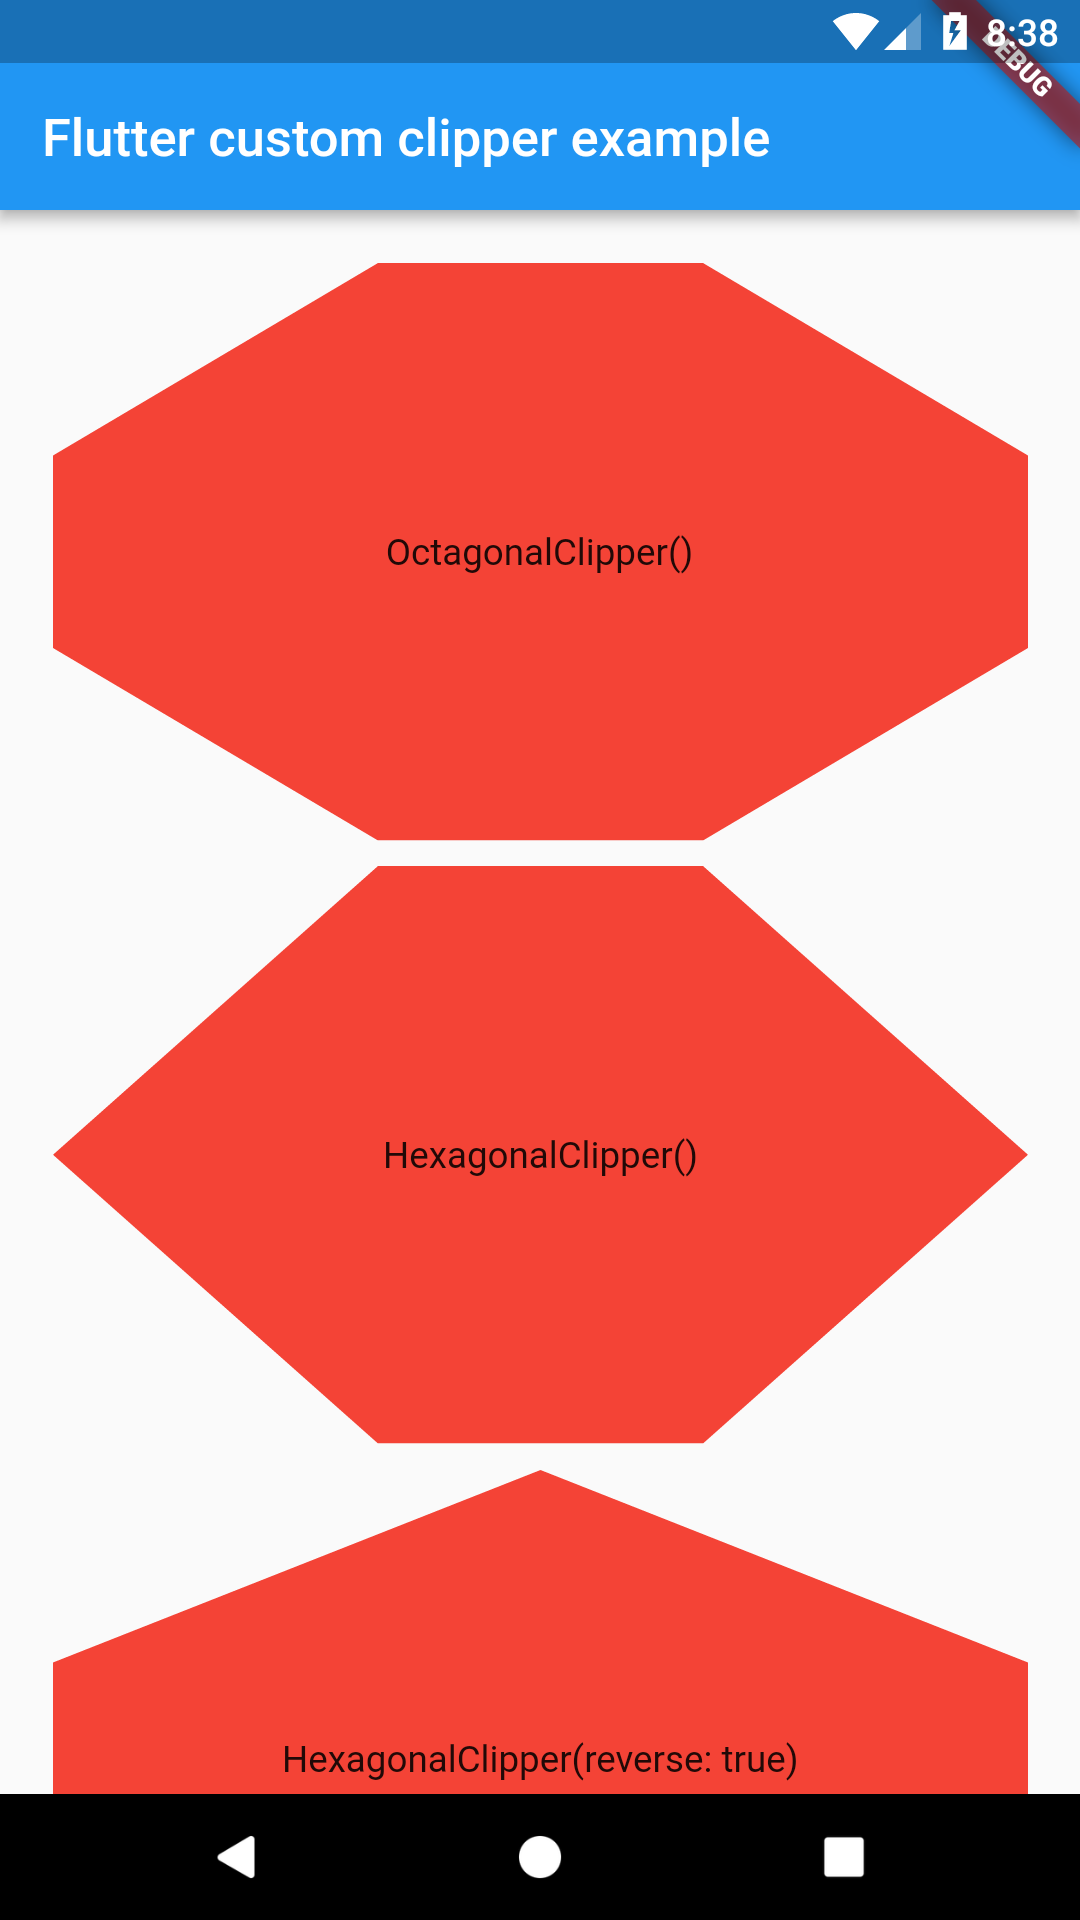
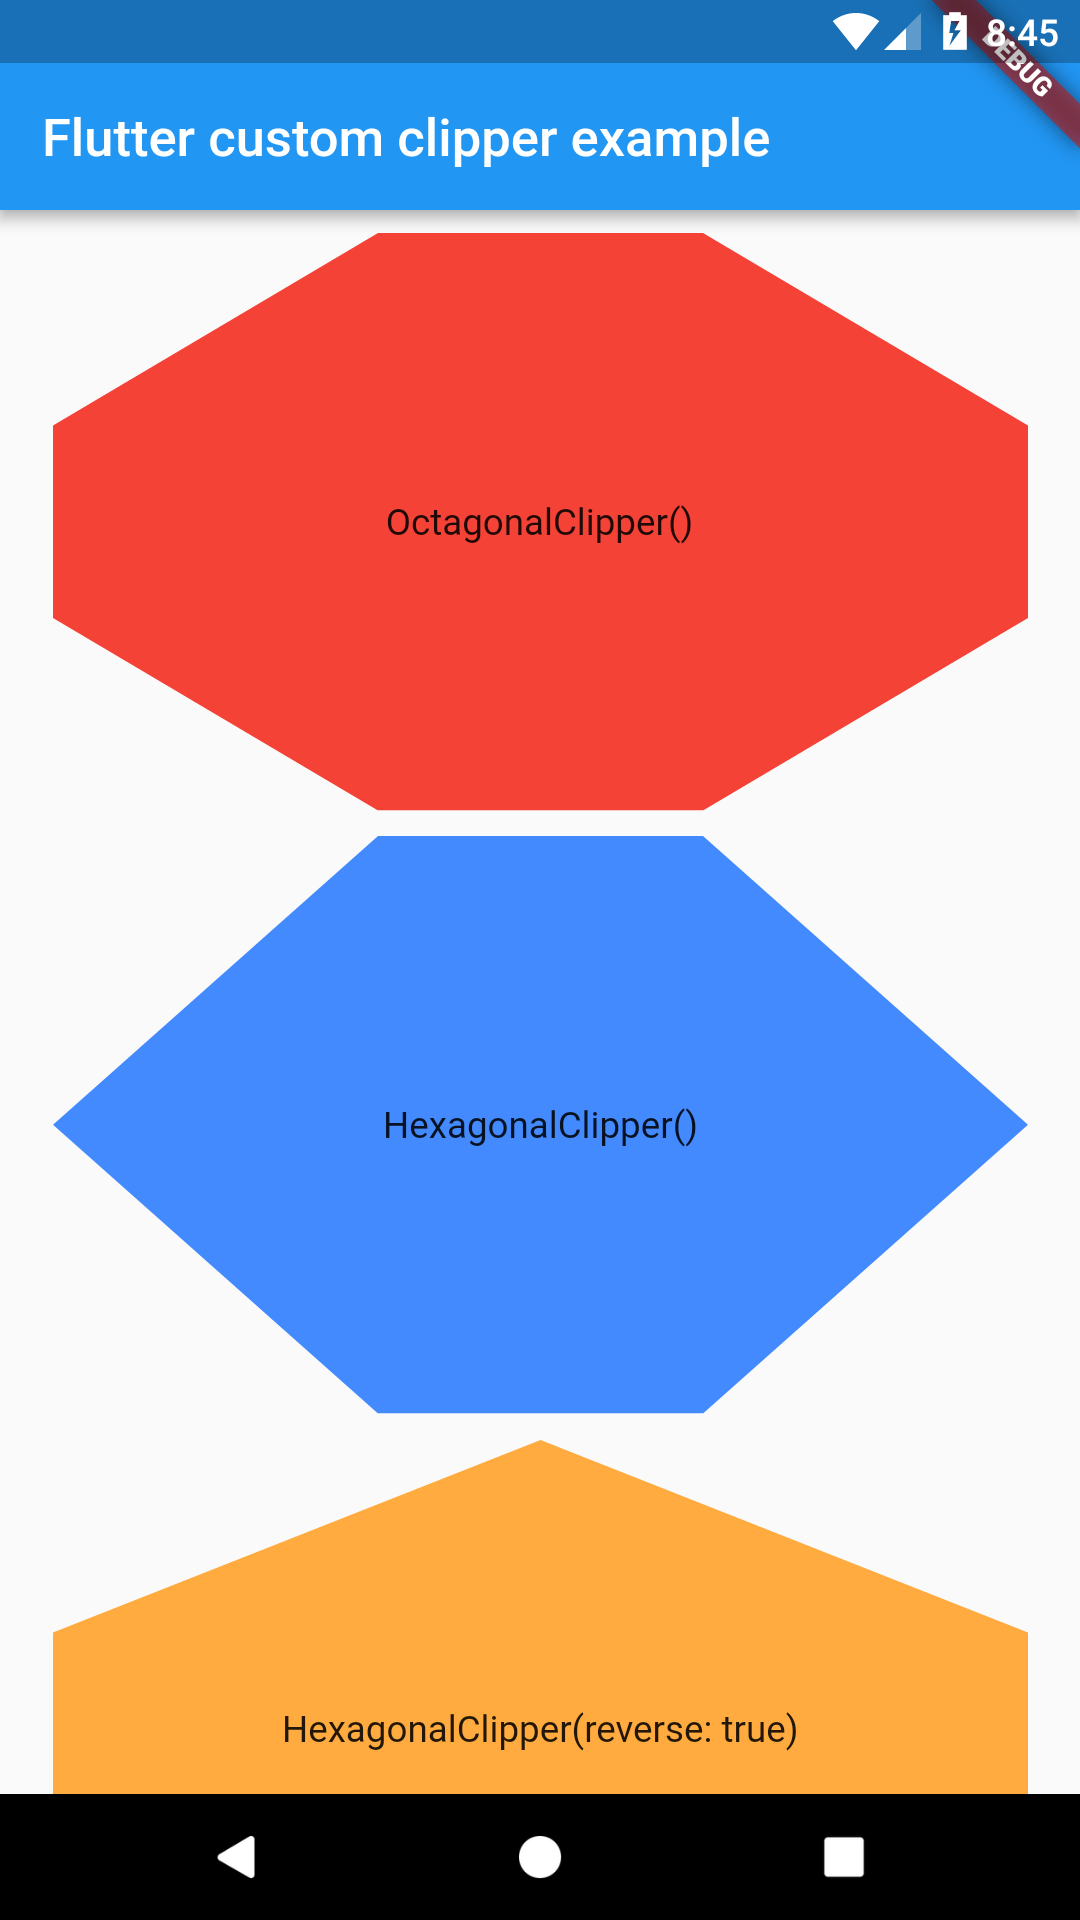
new screenshot and readme update

diff --git a/example/lib/main.dart b/example/lib/main.dart
@@ -35,7 +35,7 @@ class HomeScreen extends StatelessWidget {
             clipper: HexagonalClipper(),
             child: Container(
               height: 220,
-              color: Colors.red,
+              color: Colors.blueAccent,
               child: Center(child: Text("HexagonalClipper()")),
             ),
           ),
@@ -44,7 +44,7 @@ class HomeScreen extends StatelessWidget {
             clipper: HexagonalClipper(reverse: true),
             child: Container(
               height: 220,
-              color: Colors.red,
+              color: Colors.orangeAccent,
               child: Center(child: Text("HexagonalClipper(reverse: true)")),
             ),
           ),
@@ -53,7 +53,7 @@ class HomeScreen extends StatelessWidget {
             clipper: ParallelogramClipper(),
             child: Container(
               height: 220,
-              color: Colors.red,
+              color: Colors.pinkAccent,
               child: Center(child: Text("ParallelogramClipper()")),
             ),
           ),

diff --git a/README.md b/README.md
@@ -10,6 +10,7 @@ To use this plugin, add `flutter_custom_clippers` as a [dependency in your pubsp
 <img src="https://github.com/lohanidamodar/flutter_custom_clippers/raw/master/screenshots/screenshot2.png" height="480px">
 <img src="https://github.com/lohanidamodar/flutter_custom_clippers/raw/master/screenshots/screenshot3.png" height="480px">
 <img src="https://github.com/lohanidamodar/flutter_custom_clippers/raw/master/screenshots/screenshot4.png" height="480px">
+<img src="https://github.com/lohanidamodar/flutter_custom_clippers/raw/master/screenshots/screenshot5.png" height="480px">
 
 ## Example
 ```dart
@@ -50,7 +51,7 @@ class HomeScreen extends StatelessWidget {
             clipper: HexagonalClipper(),
             child: Container(
               height: 220,
-              color: Colors.red,
+              color: Colors.blueAccent,
               child: Center(child: Text("HexagonalClipper()")),
             ),
           ),
@@ -59,8 +60,17 @@ class HomeScreen extends StatelessWidget {
             clipper: HexagonalClipper(reverse: true),
             child: Container(
               height: 220,
-              color: Colors.red,
+              color: Colors.orangeAccent,
               child: Center(child: Text("HexagonalClipper(reverse: true)")),
+            ),
+          ),
+          SizedBox(height: 10.0,),
+          ClipPath(
+            clipper: ParallelogramClipper(),
+            child: Container(
+              height: 220,
+              color: Colors.pinkAccent,
+              child: Center(child: Text("ParallelogramClipper()")),
             ),
           ),
           SizedBox(height: 10.0,),

diff --git a/example/README.md b/example/README.md
@@ -42,7 +42,7 @@ class HomeScreen extends StatelessWidget {
             clipper: HexagonalClipper(),
             child: Container(
               height: 220,
-              color: Colors.red,
+              color: Colors.blueAccent,
               child: Center(child: Text("HexagonalClipper()")),
             ),
           ),
@@ -51,8 +51,17 @@ class HomeScreen extends StatelessWidget {
             clipper: HexagonalClipper(reverse: true),
             child: Container(
               height: 220,
-              color: Colors.red,
+              color: Colors.orangeAccent,
               child: Center(child: Text("HexagonalClipper(reverse: true)")),
+            ),
+          ),
+          SizedBox(height: 10.0,),
+          ClipPath(
+            clipper: ParallelogramClipper(),
+            child: Container(
+              height: 220,
+              color: Colors.pinkAccent,
+              child: Center(child: Text("ParallelogramClipper()")),
             ),
           ),
           SizedBox(height: 10.0,),
